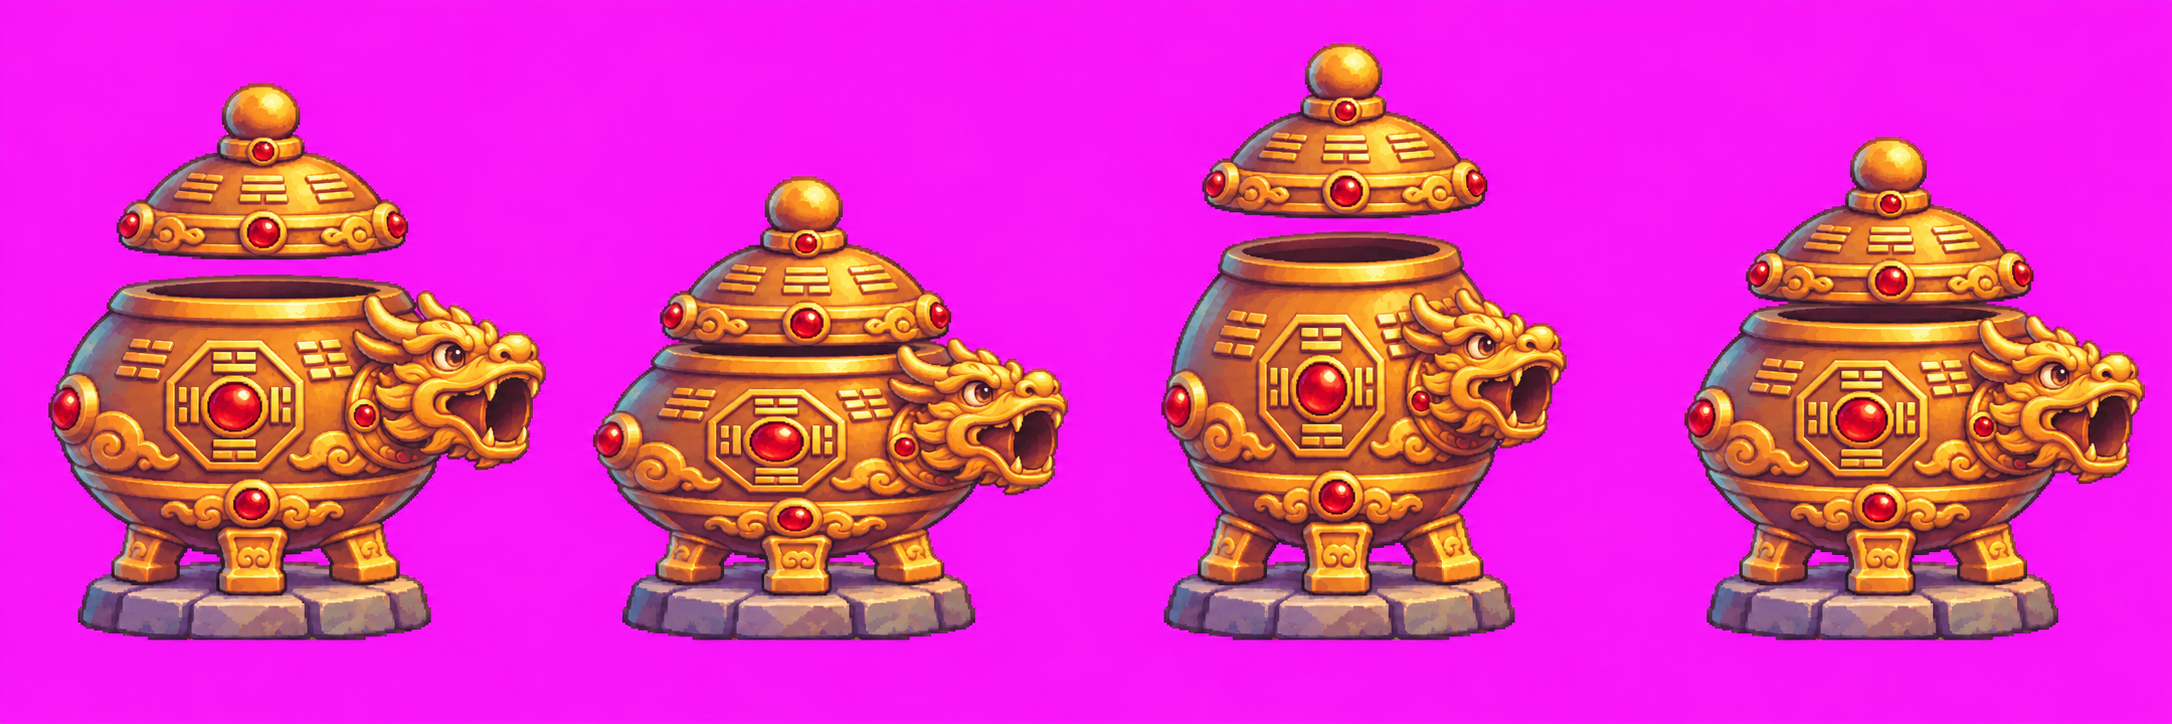
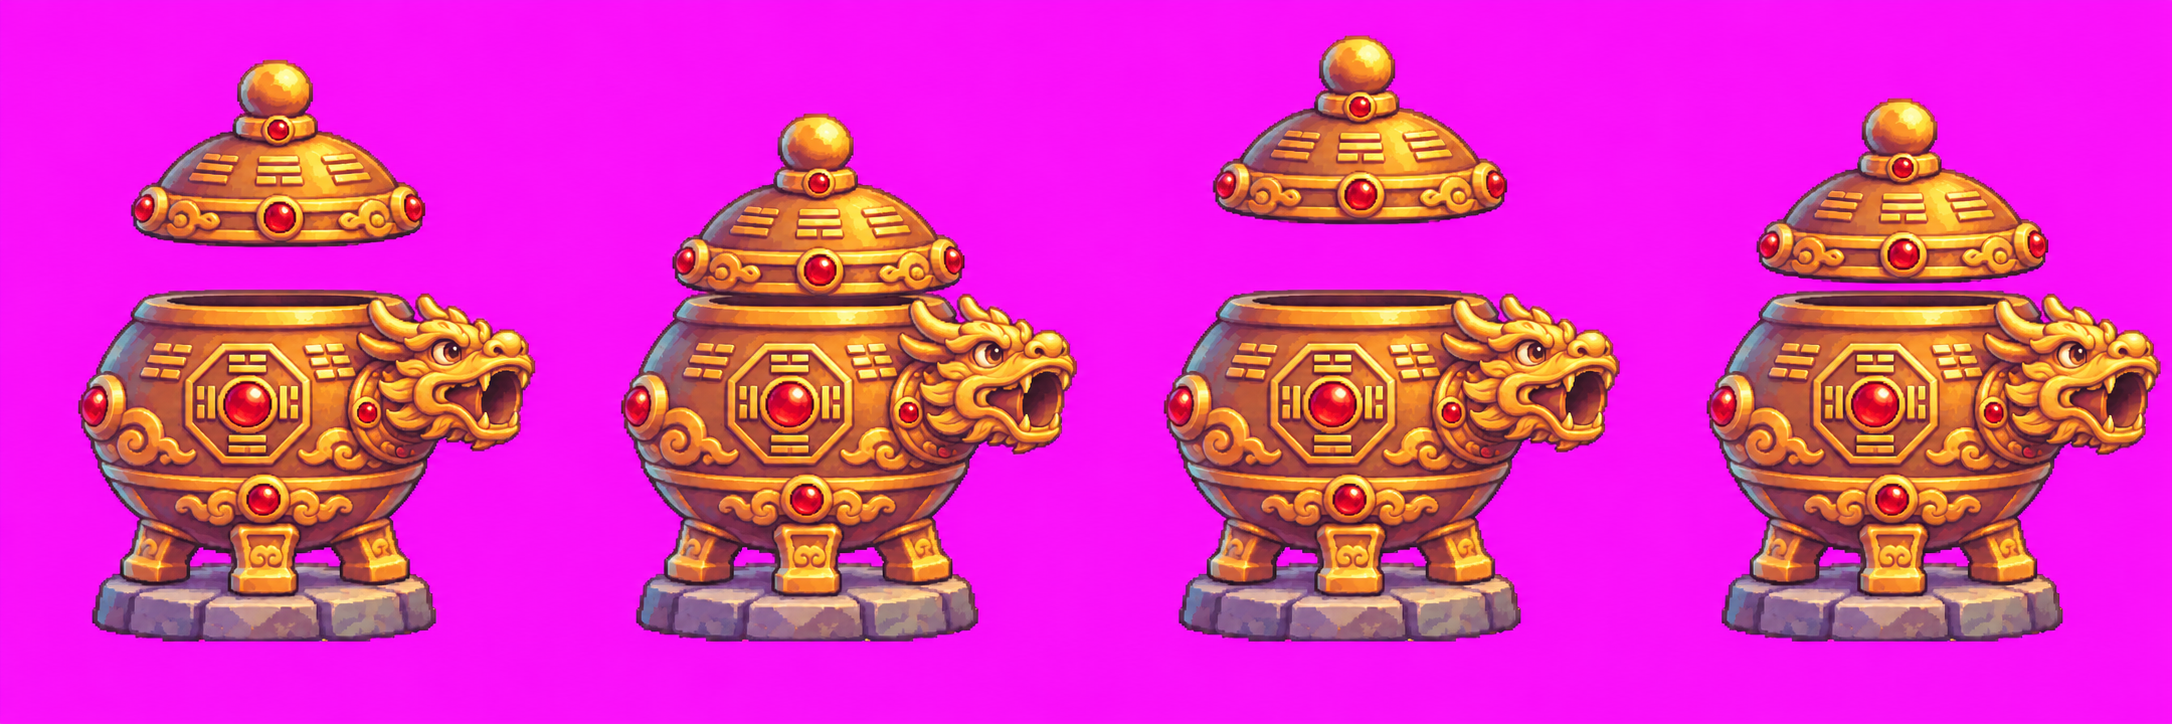
art(batch2): revise locked proportions of furnace__t3__attack.png

diff --git a/idle-td-art/batch2/ORDER-B2.md b/idle-td-art/batch2/ORDER-B2.md
@@ -109,7 +109,6 @@ Redraw image B frame by frame using the tier <N> design from image A: EXACTLY th
 | `images/crossbow__t3__attack.png` | 2172×724 | 4 | 3 階三聯金弩沿用攻擊節奏；弩具、旗幟與兩枚金羽逐格變化，無空中投射物。 |
 | `images/furnace__t2__stand.png` | 1254×1254 | 1 | 丹爐炮塔 2 階：青銅爐體、銅鉚釘與把手、加寬炮口、後方煙囪。 |
 | `images/furnace__t3__stand.png` | 1254×1254 | 1 | 丹爐炮塔 3 階：金色八卦爐、紅玉寶石、朝右龍口炮嘴、微浮爐蓋。 |
-| `images/furnace__t3__attack.png` | 2172×724 | 4 | 丹爐炮塔 3 階攻擊四格：金色八卦爐、紅玉與龍口炮嘴，爐體擠壓、爐蓋起落。 |
 | `images/bell__t2__stand.png` | 1254×1254 | 1 | 雷音鐘塔 2 階：紅漆曲簷鐘亭、雕雲紋青銅鐘、魚形木槌。 |
 | `images/bell__t3__stand.png` | 1254×1254 | 1 | 雷音鐘塔 3 階：紫金鐘樓、雷雲紋金鐘、雙鼓與三枚浮雲飾件。 |
 | `images/bell__t1__attack.png` | 2172×724 | 4 | 雷音鐘塔 1 階攻擊四格：木槌後擺、敲鐘、鐘身右擺、回擺；鐘架與底座固定。 |
@@ -127,6 +126,7 @@ Redraw image B frame by frame using the tier <N> design from image A: EXACTLY th
 | `images/talisman__t3__attack.png` | 2172×724 | 4 | 符咒塔 3 階攻擊四格：兩排黃紫符紙共八張，後揚、抬起、右展與回落；毛筆與流蘇起伏。 |
 | `images/furnace__t1__attack.png` | 2172×724 | 4 | 09:35 返工修正版：爐身、三足與底座固定，只動爐蓋與炮口；第 4 格關蓋回站立。 |
 | `images/furnace__t2__attack.png` | 2172×724 | 4 | 09:35 返工修正版：青銅爐身不擠壓、不拉長，只動蓋與炮口；第 4 格關蓋，比例已重新對照站立。 |
+| `images/furnace__t3__attack.png` | 2172×724 | 4 | 09:35 返工修正版：金色爐身固定，只有爐蓋起落與龍口微縮；第 4 格回到站立圖微浮蓋位置。 |
 
 原檔 SHA-256：
 
@@ -142,7 +142,6 @@ Redraw image B frame by frame using the tier <N> design from image A: EXACTLY th
[7 lines of base64/hex data omitted]
@@ -160,6 +159,7 @@ Redraw image B frame by frame using the tier <N> design from image A: EXACTLY th
[4 lines of base64/hex data omitted]
 
 ## 意見與待辦
 
